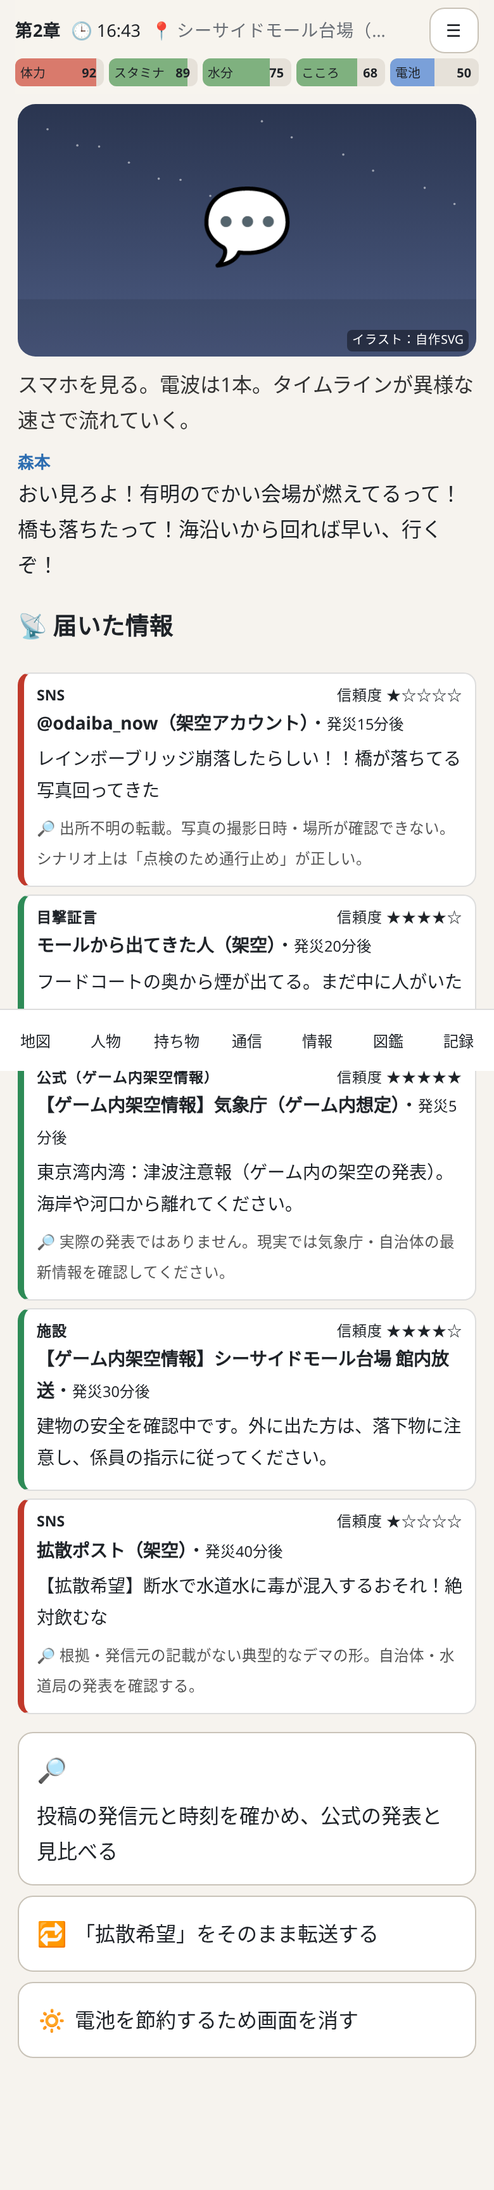
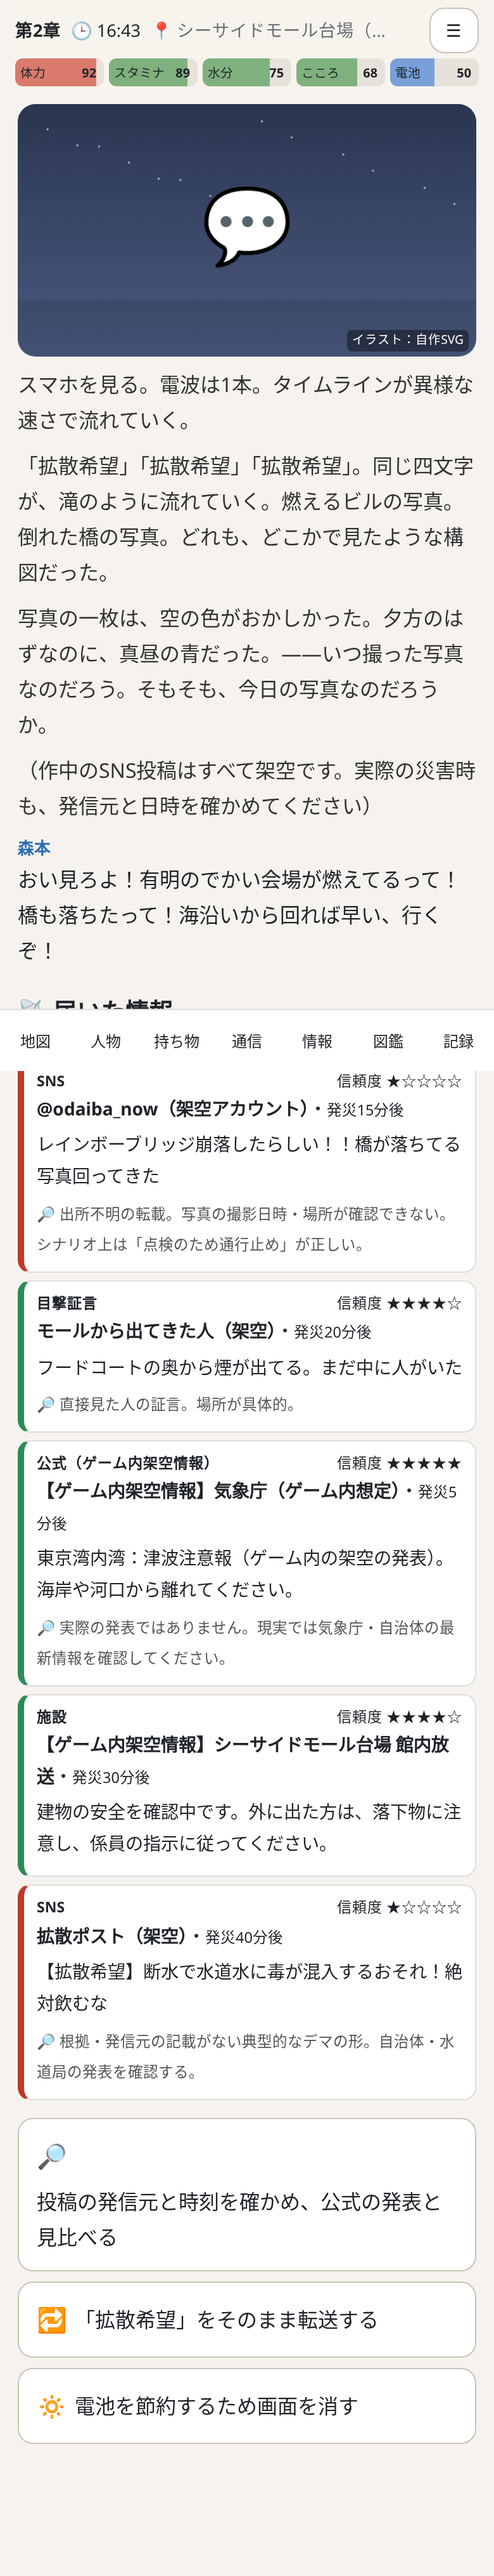
Stage 9: chapter 0 everyday detail

Changed region(s): [[0.0308, 0.0, 0.9846, 0.9609]]

diff --git a/src/data/scenes0x.ts b/src/data/scenes0x.ts
@@ -17,6 +17,11 @@ export const ch0x: Scene[] = [
     ['', '陽菜はランドセルを背負ったまま、食卓の下にもぐって何かを隠している。「見ちゃだめ」と言われたので、湊は見ないふりをする。見ないふりは、父親になってからいちばん上達した技術だった。'],
     ['{fam2}', 'パパ、きょうは、ぜったい、はやくかえってきてね。ぜったいだよ。'],
     ['', '「ぜったい」が二回。七歳の約束は、大人の契約書より重い。'],
+    ['', '千夏が、トーストの耳をかじりながら、壁のカレンダーを見た。今日の欄に、陽菜の字で「ぎょうざ」と書いてある。その横に、小さな星が三つ。'],
+    ['{fam1}', '餃子、六十個包むからね。今日は、パパが包む係。'],
+    ['{me}', '六十個は多くない？'],
+    ['{fam1}', '陽菜が三十個食べるって。……嘘だと思うでしょ。この前、ほんとに二十八個食べたのよ。'],
+    ['', '玄関で靴を履いていると、陽菜が食卓の下から出てきて、何か紙切れを握らせようとした。「まだ、だめ。よるまで、あけちゃだめ」。結局、陽菜はそれを、また自分のポケットに戻した。'],
   ], { choices: [
       C('ask_job', '「千夏、それ……仕事、探してるの？」と聞いてみる', 'c0_meet_talk', { icon: '💬', effects: { flag: 'chinatsu_job_talk', npc: { id: 'fam1', trust: 10 } }, result: '千夏は画面を伏せ、少し笑った。「まだ迷ってるだけ。今夜、餃子包みながら話そうか」。今夜、という言葉が、テーブルの上にそっと置かれた。' }),
       C('hina', '食卓の下の陽菜に「何してるのかな〜」と声をかける', 'c0_meet_talk', { icon: '🙈', effects: { mental: 3 }, result: '「ひみつ！」。小さな手が、色紙の端を背中に回して隠した。クレヨンの青が、指についていた。' }),
@@ -35,6 +40,9 @@ export const ch0x: Scene[] = [
     ['', '付き合って一年。最初のメッセージは「ノート、ありがとう。字、きれいだね」。蓮はいつも、言いにくいことほど丁寧な句読点で送ってくる。'],
     ['{fam1}', '（メッセージ）今日の夜、ちょっと話したいことがある。悪い話じゃない。たぶん。'],
     ['', '「たぶん」に、葵は少しだけ笑って、少しだけ不安になった。'],
+    ['', '電車が多摩川を渡る。川面が朝の光をはね返して、車内の天井に、ゆらゆらと白い模様を描いた。'],
+    ['', '「話したいこと」。何だろう。就職のこと。引っ越しのこと。それとも——。考えるのをやめて、イヤホンの音量を上げた。考えすぎるのは、葵の悪い癖だと、祖母にも蓮にも言われていた。'],
+    ['', '祖母に、メッセージを一通送った。「きょう、夜、羊羹たべにいくかも」。すぐに、スタンプが返ってきた。ふみが覚えたての、ぺこりと頭を下げる猫のスタンプ。三回連続で。'],
   ], { choices: [
       C('call', '電車を降りてから、短く電話をかける', 'c0_meet_talk', { icon: '📞', effects: { npc: { id: 'fam1', trust: 10 }, flag: 'st_called_ren' }, result: '「なに、気になるじゃん」「夜に言う。顔見て言いたいから」。蓮の声の後ろで、品川のアナウンスが鳴っていた。' }),
       C('stamp', '「たぶんって何」とスタンプだけ返す', 'c0_meet_talk', { icon: '🐧', effects: { mental: 2 } }),
@@ -67,6 +75,9 @@ export const ch0x: Scene[] = [
     ['', 'ベンチで、ベビーカーを揺らしながら海を見ている若い母親がいた。ベビーカーの中の赤ん坊は、ぐずる寸前の顔をしている。母親の目の下には、寝不足の青い影。'],
     ['律', 'あかちゃん、これ、あげる。'],
     ['', '律が差し出したのは、さっき拾った中でいちばん小さい、桜色の貝がらだった。'],
+    ['', '若い母親は、驚いた顔をして、それから、笑った。「ありがとう。この子が大きくなったら、渡すね」。'],
+    ['', '律は得意そうに胸を張り、健司のところへ駆け戻ってきた。「パパ、あげた！」。その誇らしげな顔を、健司はスマホで撮った。あとで、何度も見返すことになる写真だった。'],
+    ['', '海風が、律の前髪を揺らした。美咲に似た、くせのある髪。健司は、帽子を深くかぶらせ直した。名札のない帽子。今度、名前を書こう。今度。'],
   ], { choices: [
       C('greet', '「すみません、うちの子が」と声をかけ、少し話す', 'c0_lunch', { icon: '👋', effects: { flag: 'met_onodera_early', npc: { id: 'onodera', trust: 15 }, time: 20 }, result: '小野寺と名乗った母親は、結という八か月の娘を抱き上げて、貝がらを小さな手に握らせた。「ありがとう、お兄ちゃん」。律は、お兄ちゃんと呼ばれたことに、耳まで赤くなった。' }),
       C('away', '律を呼び戻し、砂の城づくりに戻る', 'c0_lunch', { icon: '🏰', effects: { time: 20 } }),
@@ -74,6 +85,8 @@ export const ch0x: Scene[] = [
   S('c0p_before', 0, 'mall_window', [
     ['', '午後。日差しが傾きはじめる。律は、拾った貝がらをリュックの前ポケットに大事そうにしまい、もう一度だけ中身を確かめた。'],
     ['律', 'パパ、さいごに、どこいく？　たかいとこ？　うみ？'],
+    ['', '律の頬は、日焼けで少し赤くなっていた。日焼け止めは、結局、一回しか塗れなかった。美咲に怒られる。怒られるのも、悪くない。'],
+    ['', '窓の外、海の向こうに、都心のビル群が並んでいる。あのどれかの向こうに、美咲の病院がある。健司は、心の中で、小さく手を振った。'],
   ], { onEnter: { time: 30 }, choices: [
       C('cafe', '3階の窓際カフェで、律にジュースを飲ませて休む', 'c1_pre', { icon: '☕', effects: { flag: 'at_window', loc: 'mall' } }),
       C('elev', '律の希望どおり、展望デッキへエレベーターで上がる', 'c1_pre', { icon: '🛗', effects: { flag: 'at_elevator', loc: 'mall' } }),

diff --git a/src/data/scenes1.ts b/src/data/scenes1.ts
@@ -40,6 +40,8 @@ export const ch0: Scene[] = [
   S('c0_commute', 0, 'odaiba_morning', [
     ['', 'ゆりかもめの窓から、レインボーブリッジと海が見える。'],
     ['', '埋立地の街は、平らで、広くて、明るい。'],
+    ['', '車内アナウンスが、次の駅の名前を告げる。外国人観光客の家族が、窓に張りついて写真を撮っている。父親が、子どもに「ビッグブリッジ」と指さして教えていた。'],
+    ['', '海の上を走る電車。足元の下は、水だ。そう思うと、少しだけ不思議な気持ちになる。この街の地面のほとんどは、昔は海だった。——学校で、そう習った気がする。（埋立地の成り立ちの詳細は要監修）'],
     ['拓海', 'よっ。今日、晴れてよかったな。'],
   ], { onEnter: { time: 120, loc: 'park' }, next: 'c0_walk' }),
   S('c0_walk', 0, 'promenade', [
@@ -59,6 +61,8 @@ export const ch0: Scene[] = [
   S('c0_lunch', 0, 'mall_food', [
     ['', 'シーサイドモール台場（架空の施設）。3階のフードコートは平日でもにぎわっている。'],
     ['', '壁に小さな「避難経路図」が貼ってある。いつも素通りしている紙だ。'],
+    ['', 'トレーを持った人たちが、空席を探して行き来している。ラーメンの湯気。揚げ物の油の匂い。子どもの「いただきます」。BGMは、去年流行った歌のオルゴール版だった。'],
+    ['', '避難経路図の「現在地」の赤い丸は、何度も指で押されたのか、少しかすれていた。非常口のマークは、フードコートの奥と、エスカレーターの横。その二つだけを、なんとなく目で確かめた。'],
   ], { onEnter: { loc: 'mall', time: 30 }, choices: [
       C('map', '避難経路図をスマホで撮っておく', 'c0_mall', { icon: '🗺', effects: { flag: 'knows_exit', item: 'map_paper', report: { cat: 'items', score: 1, note: '施設の避難経路を確認した' }, battery: -1 }, hint: '数秒でできる備え' }),
       C('eat', 'ラーメンの列に並ぶ', 'c0_mall', { icon: '🍜' }),
@@ -87,6 +91,8 @@ export const ch0: Scene[] = [
   ], { onEnter: { photo: 'family_call' }, next: 'c0_shop' }),
   S('c0_shop', 0, 'shop', [
     ['', 'モールの雑貨店。レジ横にモバイルバッテリーと、折りたたみのスニーカーが並んでいる。'],
+    ['', '店先には、季節の雑貨。ハロウィンのかぼちゃのランプ。海の柄のタオル。「お台場限定」のシールが貼られたキーホルダー。'],
+    ['', 'モバイルバッテリーの値札に、店員の手書きのPOPが添えてあった。「もしもの時の、いつもの安心」。少しだけ、心が動いた。'],
   ], { choices: [
       C('battery', 'モバイルバッテリーを買う', 'c0_before', { icon: '🔋', if: { noItem: 'battery_pack' }, effects: { item: 'battery_pack', report: { cat: 'items', score: 1, note: 'モバイルバッテリーを持っていた' } } }),
       C('shoes', '歩きやすい靴に履き替える', 'c0_before', { icon: '👟', if: { item: 'leather_shoes' }, effects: { item: 'sneakers', useItem: 'leather_shoes', report: { cat: 'items', score: 1, note: '歩きやすい靴に替えていた' } } }),
@@ -94,6 +100,8 @@ export const ch0: Scene[] = [
     ] }),
   S('c0_before', 0, 'mall_window', [
     ['', '午後。日差しが傾きはじめる。'],
+    ['', '窓の外、海の向こうに、都心のビル群が並んでいる。ガラスの壁面が、午後の光を、鏡のように返していた。'],
+    ['', '拓海は、さっきから、何度もスマホを見ては、ポケットに戻している。誰かからの連絡を待っているのか、自分から送るべき何かを、送れずにいるのか。'],
     ['拓海', '最後にどこ寄る？'],
   ], { alt: [{ if: { preset: 'parent' }, goto: 'c0p_before' }], onEnter: { time: 30 }, choices: [
       C('cafe', '3階の窓際カフェで休む', 'c1_pre', { icon: '☕', effects: { flag: 'at_window', loc: 'mall' } }),

diff --git a/COUNTS.md b/COUNTS.md
@@ -48,3 +48,9 @@
 - 第2章: 2,830〜2,860 → 3,521〜3,549字、第3章: 2,530〜2,730 → worker 3,471 / student 3,580 / parent 3,570字
 - 追加: c3_dusk（夕暮れの広場・共通）。c2_saeki / c2_info / c2_morimoto / c2_contact / c2_end、c3_announce / c3_hall / c3_walk1 / c3_aid / c3_rescue に描写を追加
 - 生存者平均: 78.6 / 74.4 / 75.9分、死亡率 24.2%、10エンディングすべて到達
+
+## 段階9（第0章の日常描写）
+- 第0章: 2,190〜2,360 → worker 3,103 / student 2,968 / parent 2,958字
+- c0w_m1 / c0s_m1 / c0p_beach / c0p_before（ルート別）、c0_commute / c0_lunch / c0_shop / c0_before（共通）に日常の伏線を追加（餃子60個、祖母の猫スタンプ、名札のない帽子 など）
+- 第4章（9.2〜9.8k字）は既に十分な量があるため、今回は字数を増やさず見直しのみ
+- 生存者平均: 80.3 / 76.1 / 77.2分

diff --git a/KNOWN_ISSUES.md b/KNOWN_ISSUES.md
@@ -27,3 +27,6 @@
 
 ## 段階8
 - c3_aid のトリアージタグの色分け運用は「要監修」。c2_info の注記で、作中のSNS投稿はすべて架空と明示。
+
+## 段階9
+- c0_commute の埋立地の成り立ちの記述は「要監修」。
